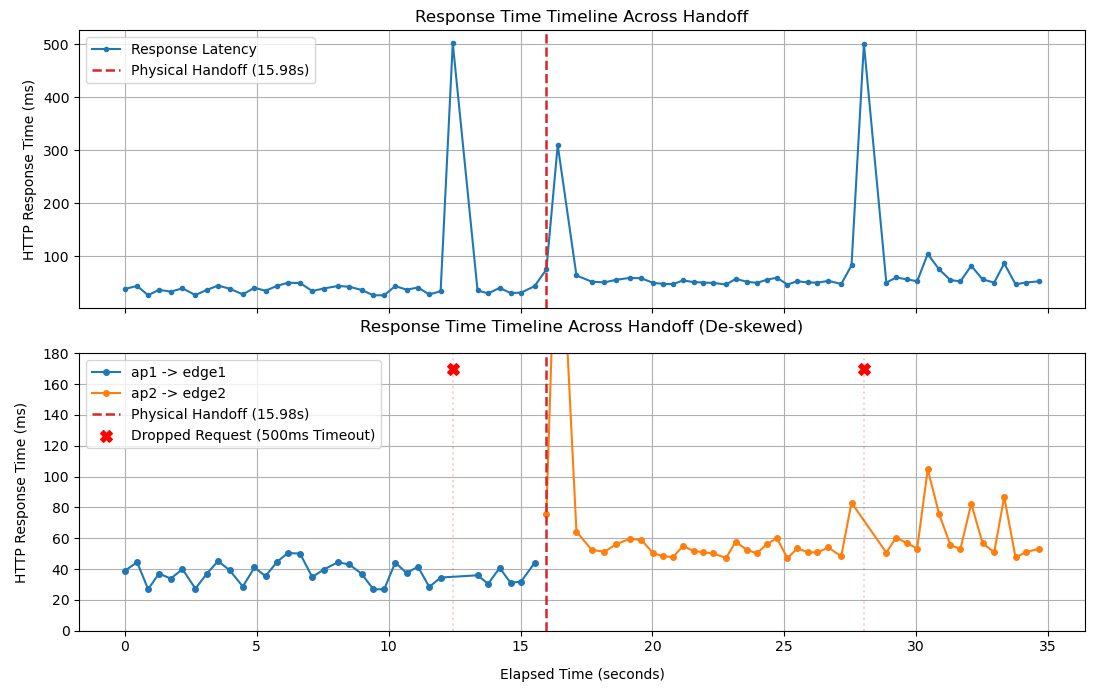
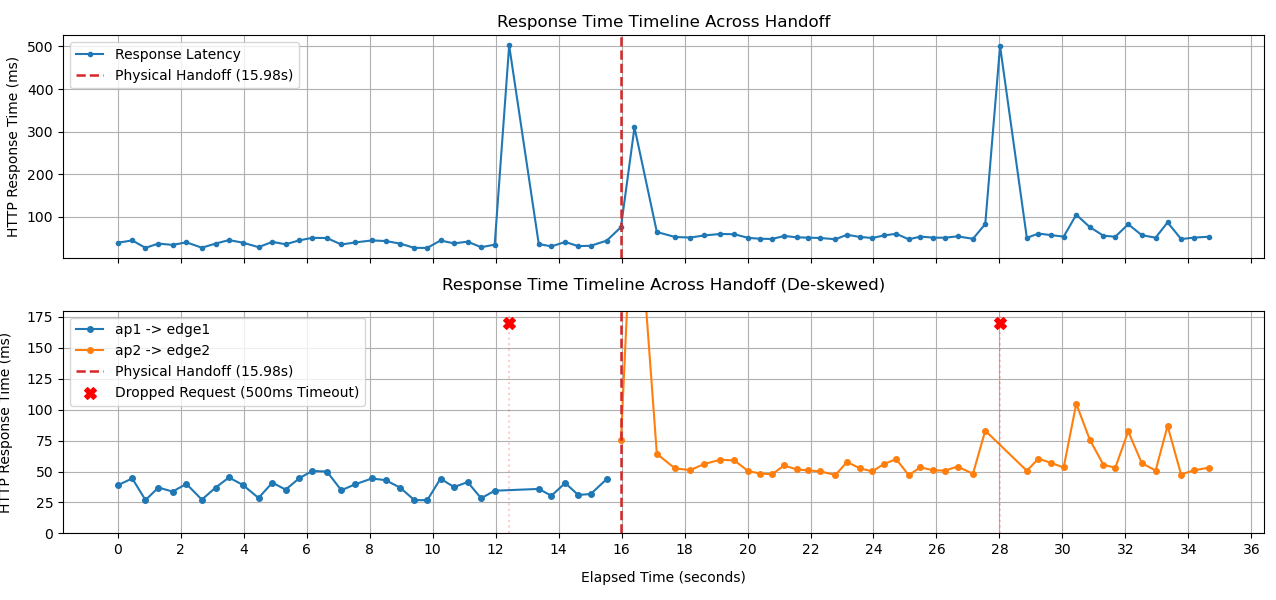
Tiny touches

Changed region(s): [[0.0, 0.0, 1.0, 0.99]]

diff --git a/L2-MobileWANHandoffDegradation/plot_handoff.py b/L2-MobileWANHandoffDegradation/plot_handoff.py
@@ -1,6 +1,7 @@
 #!/usr/bin/env python3
 import pandas as pd
 import matplotlib.pyplot as plt
+import matplotlib.ticker as ticker
 
 def generate_handoff_plot():
     #Check for file
@@ -20,7 +21,8 @@ def generate_handoff_plot():
         handoff_time = data['elapsed_time'].median()
 
     #Create subplots sharing the X-axis
-    fig, (ax1, ax2) = plt.subplots(2, 1, figsize=(11, 8), sharex=True)
+    fig, (ax1, ax2) = plt.subplots(2, 1, figsize=(16, 6), sharex=True)
+    ax1.xaxis.set_major_locator(ticker.MultipleLocator(2))
 
     ax1.plot(
         data['elapsed_time'], 
@@ -48,6 +50,7 @@ def generate_handoff_plot():
 
 
     #De-skewed Timeline (Latency Shift & Drops)
+    ax2.xaxis.set_major_locator(ticker.MultipleLocator(2))
     #Filter successful responses
     data_success = data[data["status"] == "SUCCESS"].copy()
     data_drops = data[data["status"] == "DROP"].copy()
